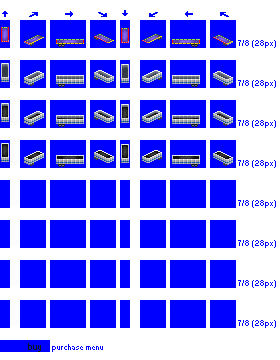
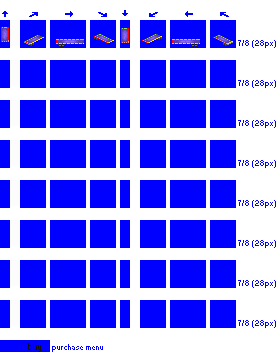
Codechange: generator kind of works

diff --git a/misc/test_pixel_generator/gestalts/tipping_trailer_4px.py b/misc/test_pixel_generator/gestalts/tipping_trailer_4px.py
@@ -1,11 +1,31 @@
 from P import P
+from pixa import render as render
+import Image
 
-# global constants
+# set palette index for lightest colour of cargo; range for rest will be calculated automatically 
+# when defining a new cargo, worth looking at resultng sprites in case range overflowed into wrong colours
+bulk_cargos = {
+    'coal' : 4,
+    'iore' : 77,
+}  
+
+# load states - values define y offset for drawing load (above floor)
+load_states = {
+    'load_1' : 0,
+    'load_2' : 2,
+    'load_3' : 4,
+}
+
+# colour onstants
 BODY = 10
 CC_A = 202
-BULK_CARGO = 4  
 
-#each sequence contains stubby objects which are constructed with params (x-offset, y-offset, colour to draw)
+# pixel sequences
+# each sequence contains stubby objects which are constructed with params (x-offset, y-offset, colour to draw)
+# if colour values etc need to change for different load states etc, sequence needs to be returned from a def
+def bulk_load(cargo_colour,load_offset): 
+    return [P(0, load_offset, cargo_colour)]
+
 body_outer = [
     P(0, 0, BODY),
     P(0, 1, CC_A), 
@@ -27,20 +47,38 @@ body_inner = [
     P(0, 3, 19), 
     P(0, 4, 14),
 ]
-bulk_load_1 = [
-    P(0, 2, BULK_CARGO),
-]
 
-key_colour_mapping = {
-    209 : dict(seq = body_inner,  colour_shift =  0),
-     90 : dict(seq = body_inner,  colour_shift =  1),
-    238 : dict(seq = body_outer,  colour_shift =  0),
-    243 : dict(seq = body_outer,  colour_shift = -1),
-    244 : dict(seq = body_outer,  colour_shift =  2),
-    240 : dict(seq = body_end,    colour_shift = -1),
-    166 : dict(seq = body_end,    colour_shift =  1),
-    138 : dict(seq = bulk_load_1, colour_shift = -3),
-    139 : dict(seq = bulk_load_1, colour_shift = -2),
-    140 : dict(seq = bulk_load_1, colour_shift = -1),
-    141 : dict(seq = bulk_load_1, colour_shift =  0),
-}
+def key_colour_mapping(cargo,load_offset):
+    if cargo == 'empty':
+        cargo_or_empty = [P(0, 0, 19)] 
+    else:
+        cargo_or_empty = bulk_load(cargo_colour=bulk_cargos[cargo],load_offset=load_offset)    
+    return {
+        209 : dict(seq = body_inner,  colour_shift =  0),
+         90 : dict(seq = body_inner,  colour_shift =  1),
+        238 : dict(seq = body_outer,  colour_shift =  0),
+        243 : dict(seq = body_outer,  colour_shift = -1),
+        244 : dict(seq = body_outer,  colour_shift =  2),
+        240 : dict(seq = body_end,    colour_shift = -1),
+        166 : dict(seq = body_end,    colour_shift =  1),
+        138 : dict(seq = cargo_or_empty, colour_shift = -3),
+        139 : dict(seq = cargo_or_empty, colour_shift = -2),
+        140 : dict(seq = cargo_or_empty, colour_shift = -1),
+        141 : dict(seq = cargo_or_empty, colour_shift =  0),
+    }
+
+def render_and_save(input_image_path, spritesheet, cargo, load_state, load_offset):
+    output_image_path = 'results/' + input_image_path.split('.png')[0] + '_tipper_' + cargo + '_' + load_state + '.png'            
+    newspritesheet = render(spritesheet.copy(), key_colour_mapping(cargo=cargo, load_offset=load_offset))
+    newspritesheet.save(output_image_path, optimize=1)        
+
+def generate(input_image_path):
+    spritesheet = Image.open(input_image_path)
+    for cargo in bulk_cargos:
+        for load_state in load_states:
+            load_offset = load_states[load_state]
+            render_and_save(input_image_path, spritesheet, cargo, load_state, load_offset)
+    cargo = 'empty'
+    load_state = '0'
+    load_offset = 0
+    render_and_save(input_image_path, spritesheet, cargo, load_state, load_offset)

diff --git a/misc/test_pixel_generator/gestalts/building.py b/misc/test_pixel_generator/gestalts/building.py
@@ -1,0 +1,121 @@
+from P import P
+from pixa import render as render
+
+def generate(input_image_path, spritesheet, gestalt):
+    output_image_path = 'results/' + input_image_path.split('.png')[0] + '_generated.png'
+    spritesheet = render(spritesheet, gestalt)
+    spritesheet.save(output_image_path, optimize=1)
+    
+
+# global constants
+C_WALL = 20
+C_ROOF = 6  
+C_LIP = C_WALL + 2
+
+#each sequence contains stubby objects which are constructed with params (x-offset, y-offset, colour to draw)
+metabolist_1 = [
+    P(0, 0, C_WALL),
+    P(0, 1, C_WALL), 
+    P(0, 2, C_WALL), 
+    P(0, 3, C_WALL-2), 
+    P(0, 4, C_LIP), 
+    P(0, 5, C_WALL),
+    P(0, 6, C_WALL), 
+    P(0, 7, C_WALL), 
+    P(0, 8, C_WALL-2), 
+    P(0, 9, C_LIP), 
+    P(0, 10, C_WALL),
+    P(0, 11, C_WALL), 
+    P(0, 12, C_WALL), 
+    P(0, 13, C_WALL-2), 
+    P(0, 13, C_LIP), 
+    P(0, 14, C_WALL),
+    P(0, 15, C_WALL), 
+    P(0, 16, C_WALL), 
+    P(0, 17, C_WALL), 
+    P(0, 18, C_LIP), 
+]
+metabolist_2 = [
+    P(0, 0, C_WALL),
+    P(0, 1, C_WALL), 
+    P(0, 2, C_WALL-2), 
+    P(0, 3, C_LIP), 
+    P(0, 4, C_WALL),
+    P(0, 5, C_WALL), 
+    P(0, 6, C_WALL), 
+    P(0, 7, C_WALL), 
+    P(0, 8, C_LIP), 
+    P(0, 13, C_WALL-2),
+    P(0, 14, C_WALL), 
+    P(0, 15, C_WALL), 
+    P(0, 16, C_WALL), 
+    P(0, 17, C_LIP), 
+]
+
+wall_plain = [
+    P(0, 0, C_WALL-1),
+    P(0, 1, C_WALL), 
+    P(0, 2, C_WALL), 
+    P(0, 3, C_WALL), 
+    P(0, 4, C_WALL), 
+    P(0, 5, C_WALL), 
+    P(0, 6, C_WALL), 
+    P(0, 7, C_WALL), 
+    P(0, 8, C_WALL), 
+    P(0, 9, C_WALL-1), 
+    P(0, 10, C_LIP),
+    P(0, 11, C_WALL), 
+    P(0, 12, C_WALL), 
+    P(0, 13, C_WALL), 
+    P(0, 14, C_WALL), 
+    P(0, 15, C_WALL), 
+    P(0, 16, C_WALL), 
+    P(0, 17, C_WALL), 
+    P(0, 18, C_WALL), 
+    P(0, 19, C_WALL-1), 
+    P(0, 20, C_LIP),
+]
+wall_windows = [
+    P(0, 0, C_WALL-1),
+    P(0, 1, C_WALL), 
+    P(0, 2, C_WALL), 
+    P(0, 3, 130), 
+    P(0, 4, 131), 
+    P(0, 5, 132), 
+    P(0, 6, 130), 
+    P(0, 7, 131), 
+    P(0, 8, 132), 
+    P(0, 9, C_WALL-1), 
+    P(0, 10, C_LIP),
+    P(0, 11, C_WALL), 
+    P(0, 12, 130), 
+    P(0, 13, 131), 
+    P(0, 14, 132), 
+    P(0, 15, 130), 
+    P(0, 16, 131), 
+    P(0, 17, 132), 
+    P(0, 18, C_WALL), 
+    P(0, 19, C_WALL-1), 
+    P(0, 20, C_LIP),
+]
+roof = [
+    P(0, 20, C_ROOF),
+]
+
+key_colour_mapping = {
+     45 : dict(seq = metabolist_1,  colour_shift =  0),
+     44 : dict(seq = metabolist_1,  colour_shift =  -1),
+     43 : dict(seq = metabolist_1,  colour_shift =  -2),
+     28 : dict(seq = metabolist_2,  colour_shift =  0),
+     27 : dict(seq = metabolist_2,  colour_shift =  -1),
+     26 : dict(seq = metabolist_2,  colour_shift =  -2),
+    209 : dict(seq = wall_plain,  colour_shift =  1),
+    208 : dict(seq = wall_plain,  colour_shift =  0),
+    238 : dict(seq = wall_plain,  colour_shift =  -0),
+    237 : dict(seq = wall_plain,  colour_shift =  -1),
+    165 : dict(seq = wall_windows,  colour_shift =  1),
+    163 : dict(seq = wall_windows,  colour_shift =  0),
+    139 : dict(seq = roof, colour_shift = -2),
+    140 : dict(seq = roof, colour_shift = -1),
+    141 : dict(seq = roof, colour_shift =  0),
+}

diff --git a/misc/test_pixel_generator/pixa.py b/misc/test_pixel_generator/pixa.py
@@ -1,0 +1,30 @@
+import Image
+import ImageDraw
+
+def get_pixel_sequence(x, y, key_map):
+    raw_sequence = key_map['seq']
+    pixel_sequence = []
+    for P in raw_sequence:
+        yield (x + P.dx, y - P.dy, P.colour + key_map['colour_shift'])
+
+def render(image, key_colour_mapping):
+    colours = set() #used for debug
+    imagepx = image.load()
+    draw = ImageDraw.Draw(image)
+    for x in range(image.size[0]):
+      for y in range(image.size[1]):
+        colour = imagepx[x,y]
+        if colour not in (0, 15, 255):
+          colours.add(colour) #used for debug only
+        key_map = key_colour_mapping.get(imagepx[x,y])
+        if key_map is not None:
+            for sx, sy, scol in get_pixel_sequence(x, y, key_map):
+                draw.point([(sx, sy)], fill=scol)
+    print colours # debug: what colours did we find in this spritesheet?
+    return image
+
+def generate(input_image_path, key_colour_mapping, output_image_path):
+    spritesheet = Image.open(input_image_path)
+    draw = ImageDraw.Draw(spritesheet)
+    spritesheet = render(spritesheet, key_colour_mapping)
+    spritesheet.save(output_image_path, optimize=1)

diff --git a/misc/test_pixel_generator/test.py b/misc/test_pixel_generator/test.py
@@ -7,9 +7,12 @@ import Image
 import ImageDraw
 from P import P
 
-from gestalts import tipping_trailer_4px
+from gestalts import building
 
-spritesheet = Image.open('test_input.png')
+#input_image_path = 'test_input.png'
+input_image_path = 'test_input_building.png'
+
+spritesheet = Image.open(input_image_path)
 spritesheetpx = spritesheet.load()
 draw = ImageDraw.Draw(spritesheet)
 
@@ -21,7 +24,7 @@ def get_pixel_sequence(x, y, key_colour):
         pixel_sequence.append((x + P.dx, y - P.dy, P.colour + key_map['colour_shift']))
     return pixel_sequence
 
-gestalt = tipping_trailer_4px
+gestalt = building
 
 colours = {} #used for debug
 for x in range(spritesheet.size[0]):
@@ -34,6 +37,7 @@ for x in range(spritesheet.size[0]):
         for sx, sy, scol in seq:
             draw.point([(sx, sy)], fill=scol)
 
-spritesheet.save('a_test_trailer.png', optimize=1)
+output_image_path = 'a_test_building.png'
+spritesheet.save(output_image_path, optimize=1)
 
 print colours # debug: what colours did we find in this spritesheet?

diff --git a/misc/test_pixel_generator/main.py b/misc/test_pixel_generator/main.py
@@ -1,0 +1,13 @@
+print "running"
+
+import os.path
+currentdir = os.curdir
+import sys
+sys.path.append(os.path.join('gestalts')) # add to the module search path
+
+from gestalts import tipping_trailer_4px as gestalt
+input_image_path = 'test_input.png'
+
+gestalt.generate(input_image_path)
+
+print "done"
